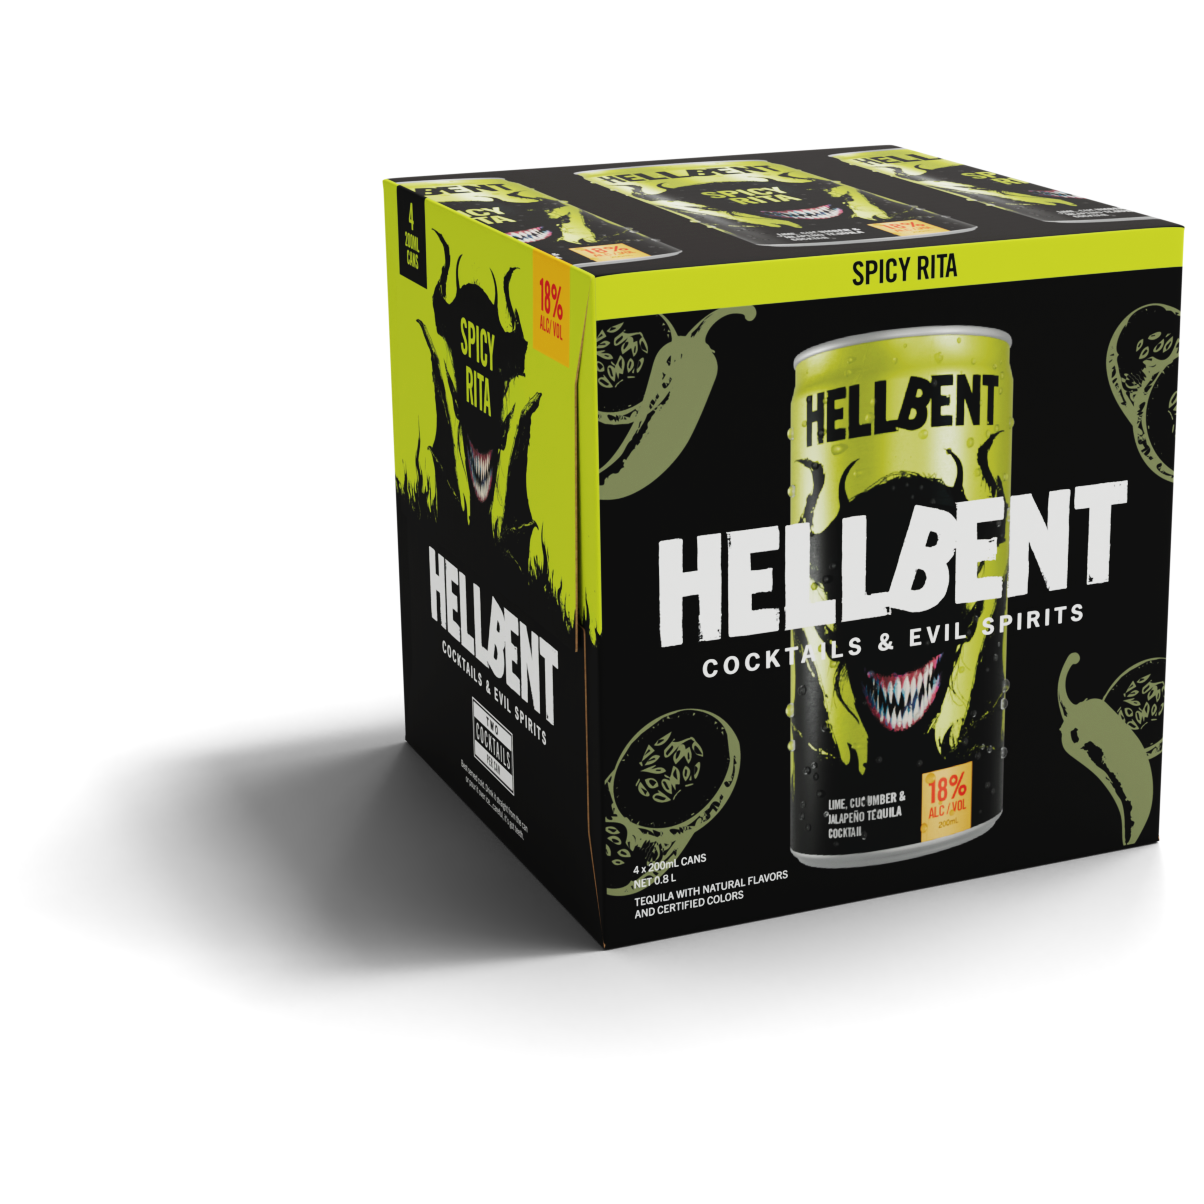
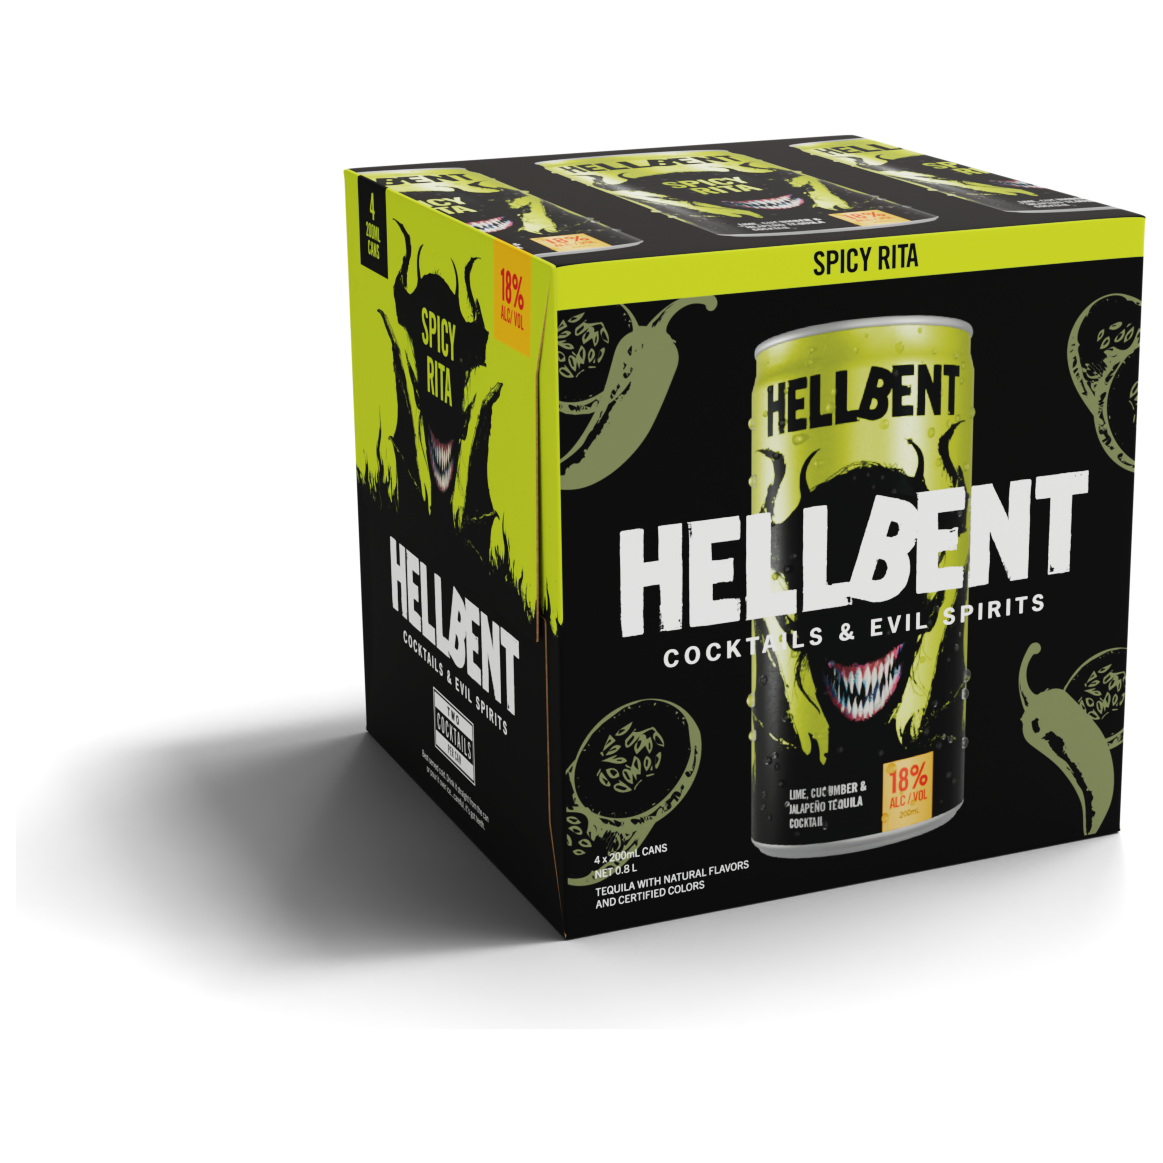
Maximise product graphics and fix badge crop
- Composites cropped to the solid product, discarding the carton's drop shadow.
  Trimming on that shadow pushed the product 338px right of centre in a 2927px
  frame — that was the off-centre. Overlap raised to 20%, so the composite is
  1.31 rather than 1.66: squarer means taller at fixed card width.
- Card frame set to exactly 2228/1700 with zero padding, so nothing letterboxes.
- Badge re-cropped on a true ink threshold (<128). The previous <200 threshold
  caught off-white JPEG noise on the right and cropped asymmetrically, which is
  what clipped the left border. Source margins were already even.
- Badge reduced from 260px to 168px max.

Changed region(s): [[0.1238, 0.0929, 0.9905, 0.8358], [0.8977, 0.2786, 0.9905, 0.4024], [0.9596, 0.1857, 0.9905, 0.2476]]

diff --git a/assets/styles.css b/assets/styles.css
@@ -129,7 +129,7 @@ a { color: inherit; }
    stamp beside the headline rather than competing with it. */
 .hero__badge {
   flex: 0 0 auto;
-  width: clamp(150px, 20vw, 260px);
+  width: clamp(112px, 13vw, 168px);
   height: auto; display: block;
 }
 .hero__kicker {
@@ -211,9 +211,9 @@ a { color: inherit; }
 .card--out { opacity: 0.55; }
 
 .card__media {
-  /* Matches the composite's 1.65 ratio. A square frame letterboxed a landscape
-     product shot, which is why it looked small. */
-  aspect-ratio: 5 / 3;
+  /* Exactly matches the composite ratio (2228x1700). Any mismatch here
+     letterboxes and shrinks the product. */
+  aspect-ratio: 2228 / 1700;
   background: var(--surface-alt);
   position: relative; overflow: hidden;
 }
@@ -223,7 +223,7 @@ a { color: inherit; }
      crop the box or can at the edges. Padding is trimmed in the source files
      instead, which is what actually makes them read larger. */
   object-fit: contain;
-  padding: 1.5%;
+  padding: 0;
   transition: transform 0.4s ease;
 }
 .card__media { background: var(--surface); }
@@ -473,7 +473,7 @@ a { color: inherit; }
     margin-bottom: 0.65rem;
   }
   .hero { flex-direction: column; align-items: flex-start; gap: 1.5rem; }
-  .hero__badge { width: min(200px, 55%); }
+  .hero__badge { width: min(132px, 40%); }
   .hero__title {
     font-size: clamp(2rem, 12vw, 3.25rem);
     line-height: 0.95;
@@ -505,7 +505,7 @@ a { color: inherit; }
     border-radius: 10px;
   }
   .card:hover { transform: none; }
-  .card__media { aspect-ratio: 5 / 3; min-height: 0; }
+  .card__media { aspect-ratio: 2228 / 1700; min-height: 0; }
   .card:hover .card__media img { transform: none; }
   .card__flag { top: 0.55rem; left: 0.55rem; }
   .card__body { min-width: 0; padding: 0.9rem; gap: 0.4rem; }
